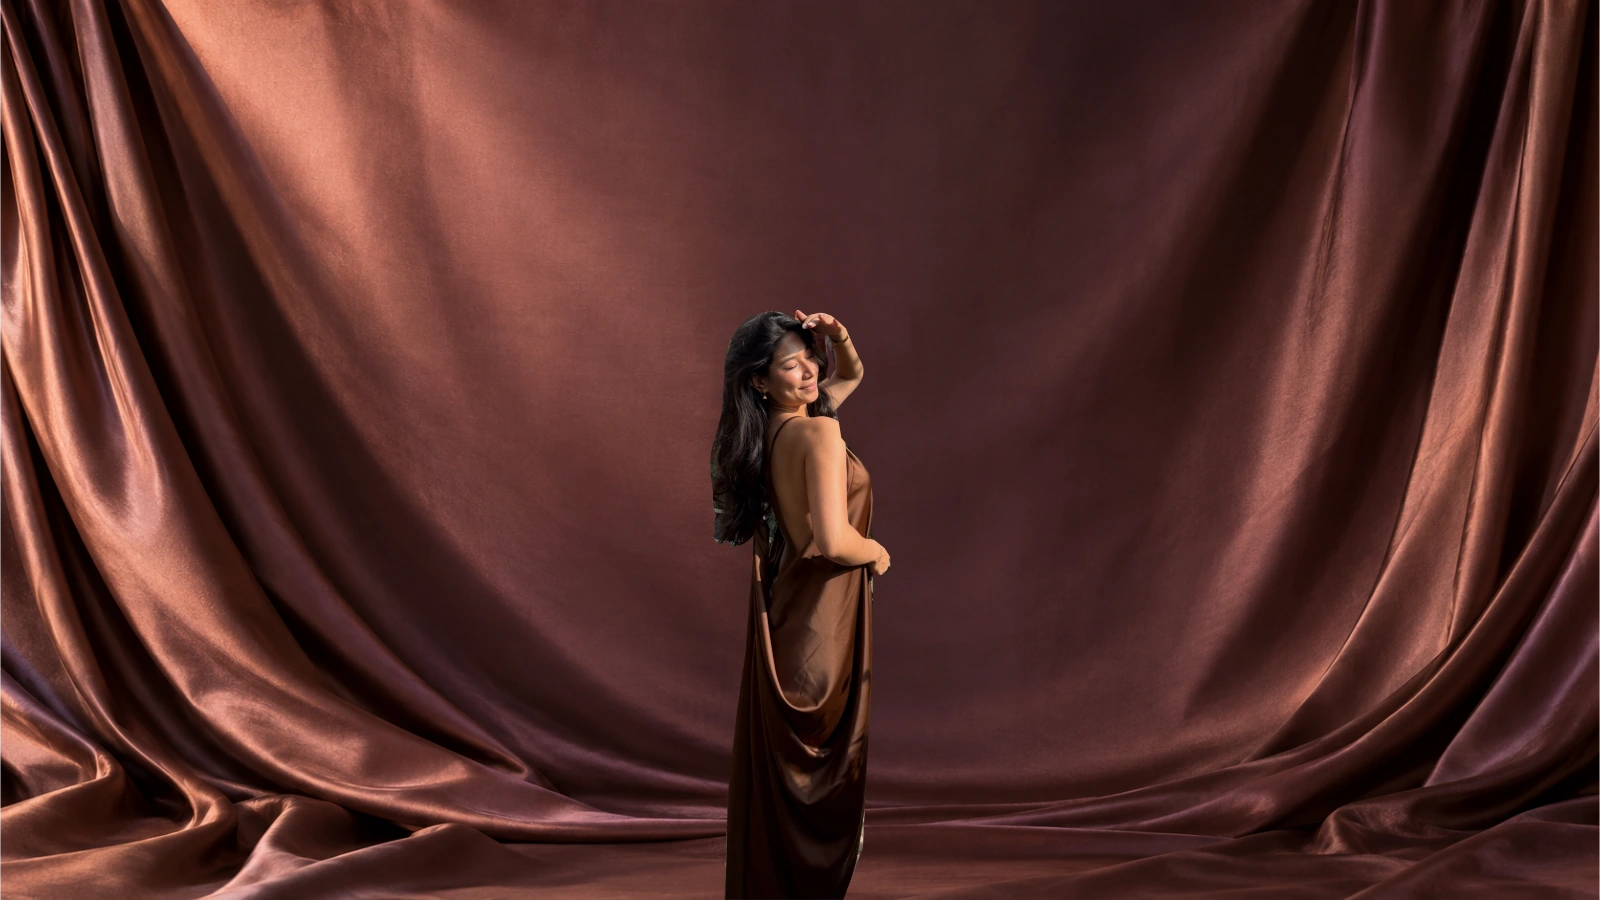
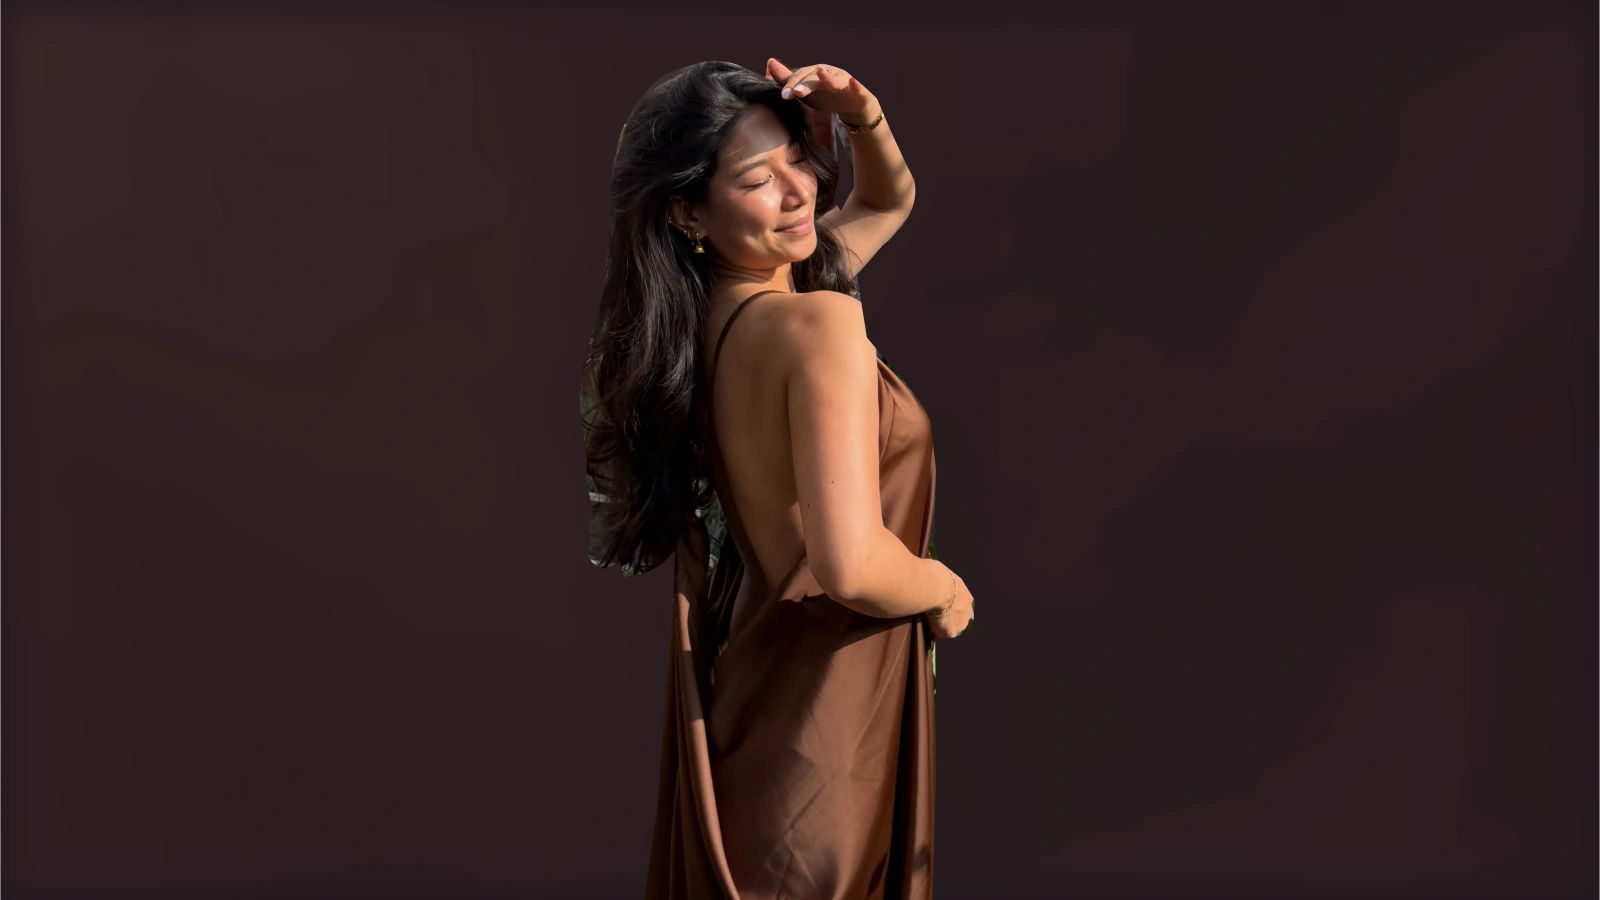
Match hero reference with closer portrait and quiet dark backdrop

diff --git a/src/data/heroPlaceholder.js b/src/data/heroPlaceholder.js
@@ -1,1 +1,1 @@
[2 lines of base64/hex data omitted]

diff --git a/src/pages/Home.jsx b/src/pages/Home.jsx
@@ -51,7 +51,7 @@ export default function Home() {
       root.style.setProperty('--hero-progress', progress);
       root.style.setProperty(
         '--hero-logo-y',
-        `${window.innerHeight * (mobile ? 0.24 : 0.20) + ((mobile ? 32 : 38) - window.innerHeight * (mobile ? 0.24 : 0.20)) * progress}px`,
+        `${window.innerHeight * (mobile ? 0.45 : 0.43) + ((mobile ? 32 : 38) - window.innerHeight * (mobile ? 0.45 : 0.43)) * progress}px`,
       );
       root.style.setProperty(
         '--hero-logo-width',
